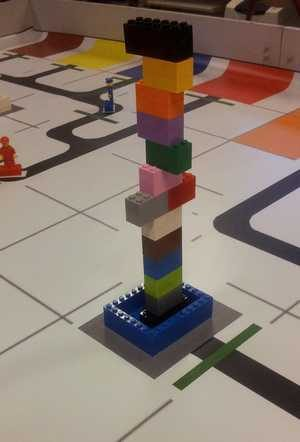
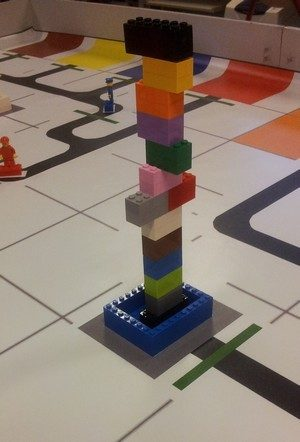
GardBot M3 : images de la statue (socle, salle, atelier) et des blocs (atelier, hors auditorium)
Claude-Session: https://claude.ai/code/session_01ETh43K1iHobGXNNaxagqrd

diff --git a/apps/app/src/app/builtin-contests.ts b/apps/app/src/app/builtin-contests.ts
@@ -588,14 +588,16 @@ export const BUILTIN_CONTESTS: BuiltinContest[] = [
               "type": "counter",
               "label": "Statue construite : blocs au-dessus des blocs noirs dans la salle de la statue.",
               "points": 8,
-              "max": 10
+              "max": 10,
+              "image": "assets/gardbot/m3-statue-salle.jpg"
             },
             {
               "id": "c-atelier",
               "type": "counter",
               "label": "Statue construite : blocs au-dessus des blocs noirs dans l'atelier.",
               "points": 6,
-              "max": 10
+              "max": 10,
+              "image": "assets/gardbot/m3-statue-atelier.jpg"
             },
             {
               "id": "nc-salle",
@@ -610,14 +612,16 @@ export const BUILTIN_CONTESTS: BuiltinContest[] = [
               "type": "counter",
               "label": "Statue non construite : blocs dans l'atelier.",
               "points": 2,
-              "max": 10
+              "max": 10,
+              "image": "assets/gardbot/m3-blocs-atelier.jpg"
             },
             {
               "id": "nc-dehors",
               "type": "counter",
               "label": "Statue non construite : blocs en dehors de l'auditorium.",
               "points": 1,
-              "max": 10
+              "max": 10,
+              "image": "assets/gardbot/m3-blocs-dehors.jpg"
             }
           ],
           "maxObjects": {
